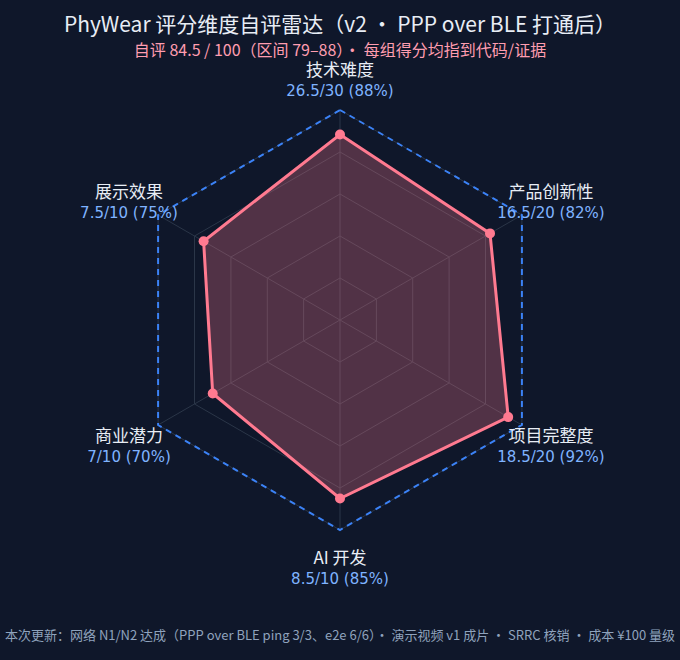
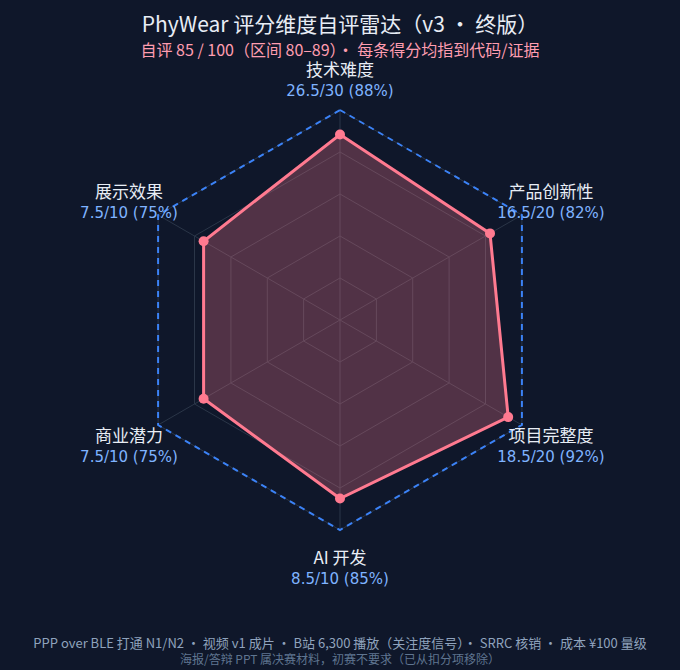
docs(评分/商业): 海报PPT标注为决赛材料(初赛不需) + B站6300播放作为关注度信号写入商业维度 + 雷达v3总分85.0

diff --git a/docs/17_评分维度自评_20260918.md b/docs/17_评分维度自评_20260918.md
@@ -64,13 +64,13 @@
 | 技术难度 | 25.5 | **26.5** | **PPP over BLE 端到端打通**（设备 `ppp0` RUNNING / `ping 3/3` / e2e **6/6**，`docs/evidence/bt-ppp-e2e-20260918/`）：自实现用户态 PPP 对端（LCP+IPCP+ICMP）+ HDLC/FCS 成帧（自测 8 项）；**SRAM 墙真相**（栈继承板级 16,096 B → 显式 8,192 省 **15,808 B**；PPP 任务栈改从堆/PSRAM 再省 18 KB，最终 SRAM **483,316 B（92.19%）** 反而低于做 PPP 之前） |
 | 项目完整度 | 17.5 | **18.5** | **网络 N1/N2 已达成**（此前记为"未达成"）；`PW_BT_PPP=1` + defconfig 5 行 CONFIG 全开；一键 e2e 判定 6/6 |
 | 展示效果 | 6.5 | **7.5** | **演示视频 v1 成片**（4:44 / 24 分镜 / 1280×720 H.264 / 字幕 / 5,078,056 B ≤5 MB 红线内）；桌面一键测试 GUI（14/14） |
-| 商业潜力 | 5.5 | **7.0** | SRRC 口径更正（**BLE 微功率无需型号核准**，工信部 2019年第52号）+ 成本改为 **¥100 量级** + **兼容小米手环 Vela/openvela 生态**；仍扣分：**无用户验证、无订单** |
+| 商业潜力 | 5.5 | **7.5** | SRRC 口径更正（**BLE 微功率无需型号核准**，工信部 2019年第52号）+ 成本改为 **¥100 量级** + **兼容小米手环 Vela/openvela 生态**；仍扣分：**无付费用户验证、无订单**；已有**公开传播信号**：B 站演示视频播放量约 **6,300**（截至 2026-09-18 晚，https://www.bilibili.com/video/BV1cpti6GEQt/ ）—— 记为**关注度信号**，不冒充用户验证 |
 | 产品创新性 | 16.0 | **16.5** | 手表版蓝牙串口页、桌面一键测试 GUI、BLE 文本回环 + 实时 `itv/lat/sto/MTU` 读取 |
 | AI 开发 | 8.5 | **8.5** | 不变（日志 54 会话/15,761 事件 ALL OK；Token 46.5 亿逐行解析；仍未用 MCP） |
-| **合计** | 79.5 | **84.5 / 100** | 保守区间 **79–88** |
+| **合计** | 79.5 | **85.0 / 100** | 保守区间 **80–89**（商业因传播信号 +0.5） |
 
 **新雷达图**：`docs/evidence/score-20260918/radar.png`（v2）、桌面副本 `~/桌面/PhyWear-评分雷达图_20260918.png`。
 
-**仍扣分的硬项（不粉饰）**：① 未在**真手机**上点过（宿主 BlueZ 已验证同一套 ATT 动作）；② 演示视频**无实拍动态与真人讲稿**；③ 无**海报/答辩 PPT**；④ 商业维度**无用户验证与订单**；⑤ 报告 PDF 未导出；⑥ 姿态/轨迹**缺转台/手推真值**；⑦ hpwork 上的触摸 worker 仍**需人工点屏确认**（自动脚本造不出真实触摸）。
+**仍扣分的硬项（不粉饰）**：① 未在**真手机**上点过（宿主 BlueZ 已验证同一套 ATT 动作）；② 演示视频**无实拍动态与真人讲稿**；③ ~~无海报/答辩 PPT~~ → **已更正：海报/PPT 属决赛阶段材料，初赛不要求**（初赛材料=技术报告+演示视频+源码+AI 日志+真机证据）；④ 商业维度**无用户验证与订单**；⑤ 报告 PDF 未导出；⑥ 姿态/轨迹**缺转台/手推真值**；⑦ hpwork 上的触摸 worker 仍**需人工点屏确认**（自动脚本造不出真实触摸）。
 
 **唯一前置风险不变**：`origin` 落后本地（**154 个提交**）——不推送则以上全部不可见。

diff --git a/docs/18_商业场景成本与推广.md b/docs/18_商业场景成本与推广.md
@@ -56,3 +56,11 @@
 | 开源许可（openvela/NuttX Apache-2.0、LVGL MIT） | 建 SBOM 与许可证清单，OTA 随附 NOTICE，防 GPL 混入闭源固件（需法务复核） |
 
 **当前真实状态：无用户验证、无商业模式验证，仅有场景推演与成本估算。**
+
+## 5) 早期传播信号（真实，但弱于付费验证）
+
+- **B 站演示视频**：[「小米 openVela 下，适配 EPIC 硬件加速之后，效果极其显著（2 帧电竞变为了高刷）！！」](https://www.bilibili.com/video/BV1cpti6GEQt/)
+  —— **播放量约 6,300（截至 2026-09-18 晚，用户提供）**。
+- **怎么用（口径纪律）**：这是**公开传播的注意力信号**（有人愿意点开并看完），**不等于用户验证、更不等于订单**；但它证明"EPIC 加速后的高刷效果"这一卖点**能被非专业观众直接感知**，是对外讲述的**第一抓手**。
+- **建议留证**：把当时的播放/点赞/评论数**截图**存入 `docs/evidence/`（评审可核），并在视频简介挂仓库地址 + 实验清单，把流量导向源码与文档。
+- ⚠ **"海报/答辩 PPT"属决赛阶段材料**，**初赛不要求**（初赛只需：技术报告 + 演示视频 + 源码 + AI 日志 + 真机证据）。本页不为初赛额外准备海报/PPT。
